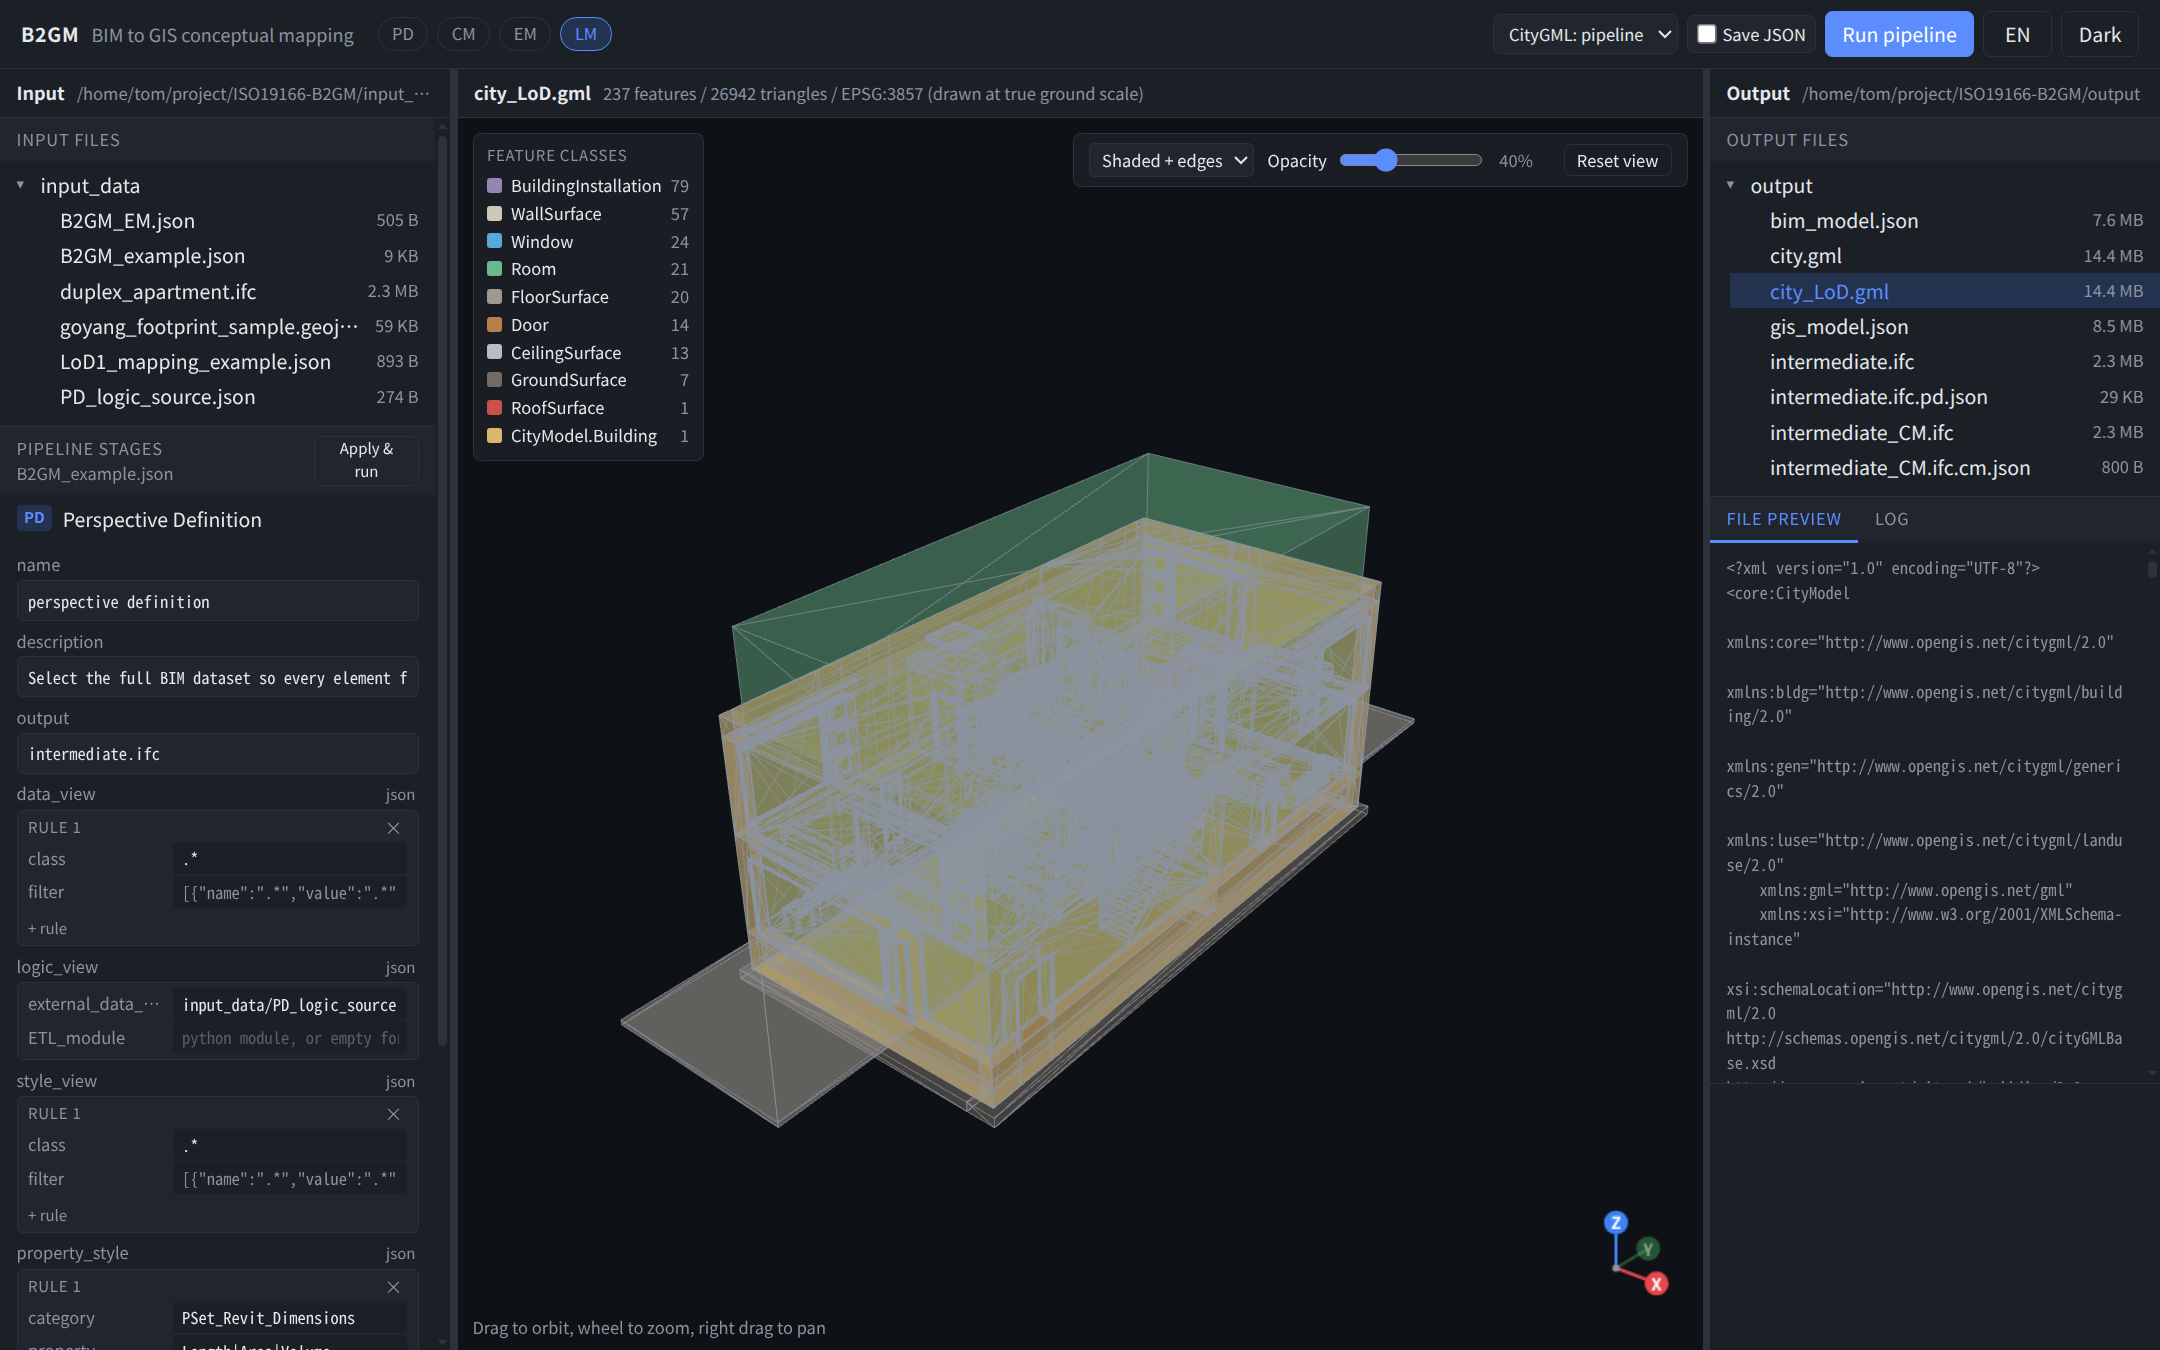
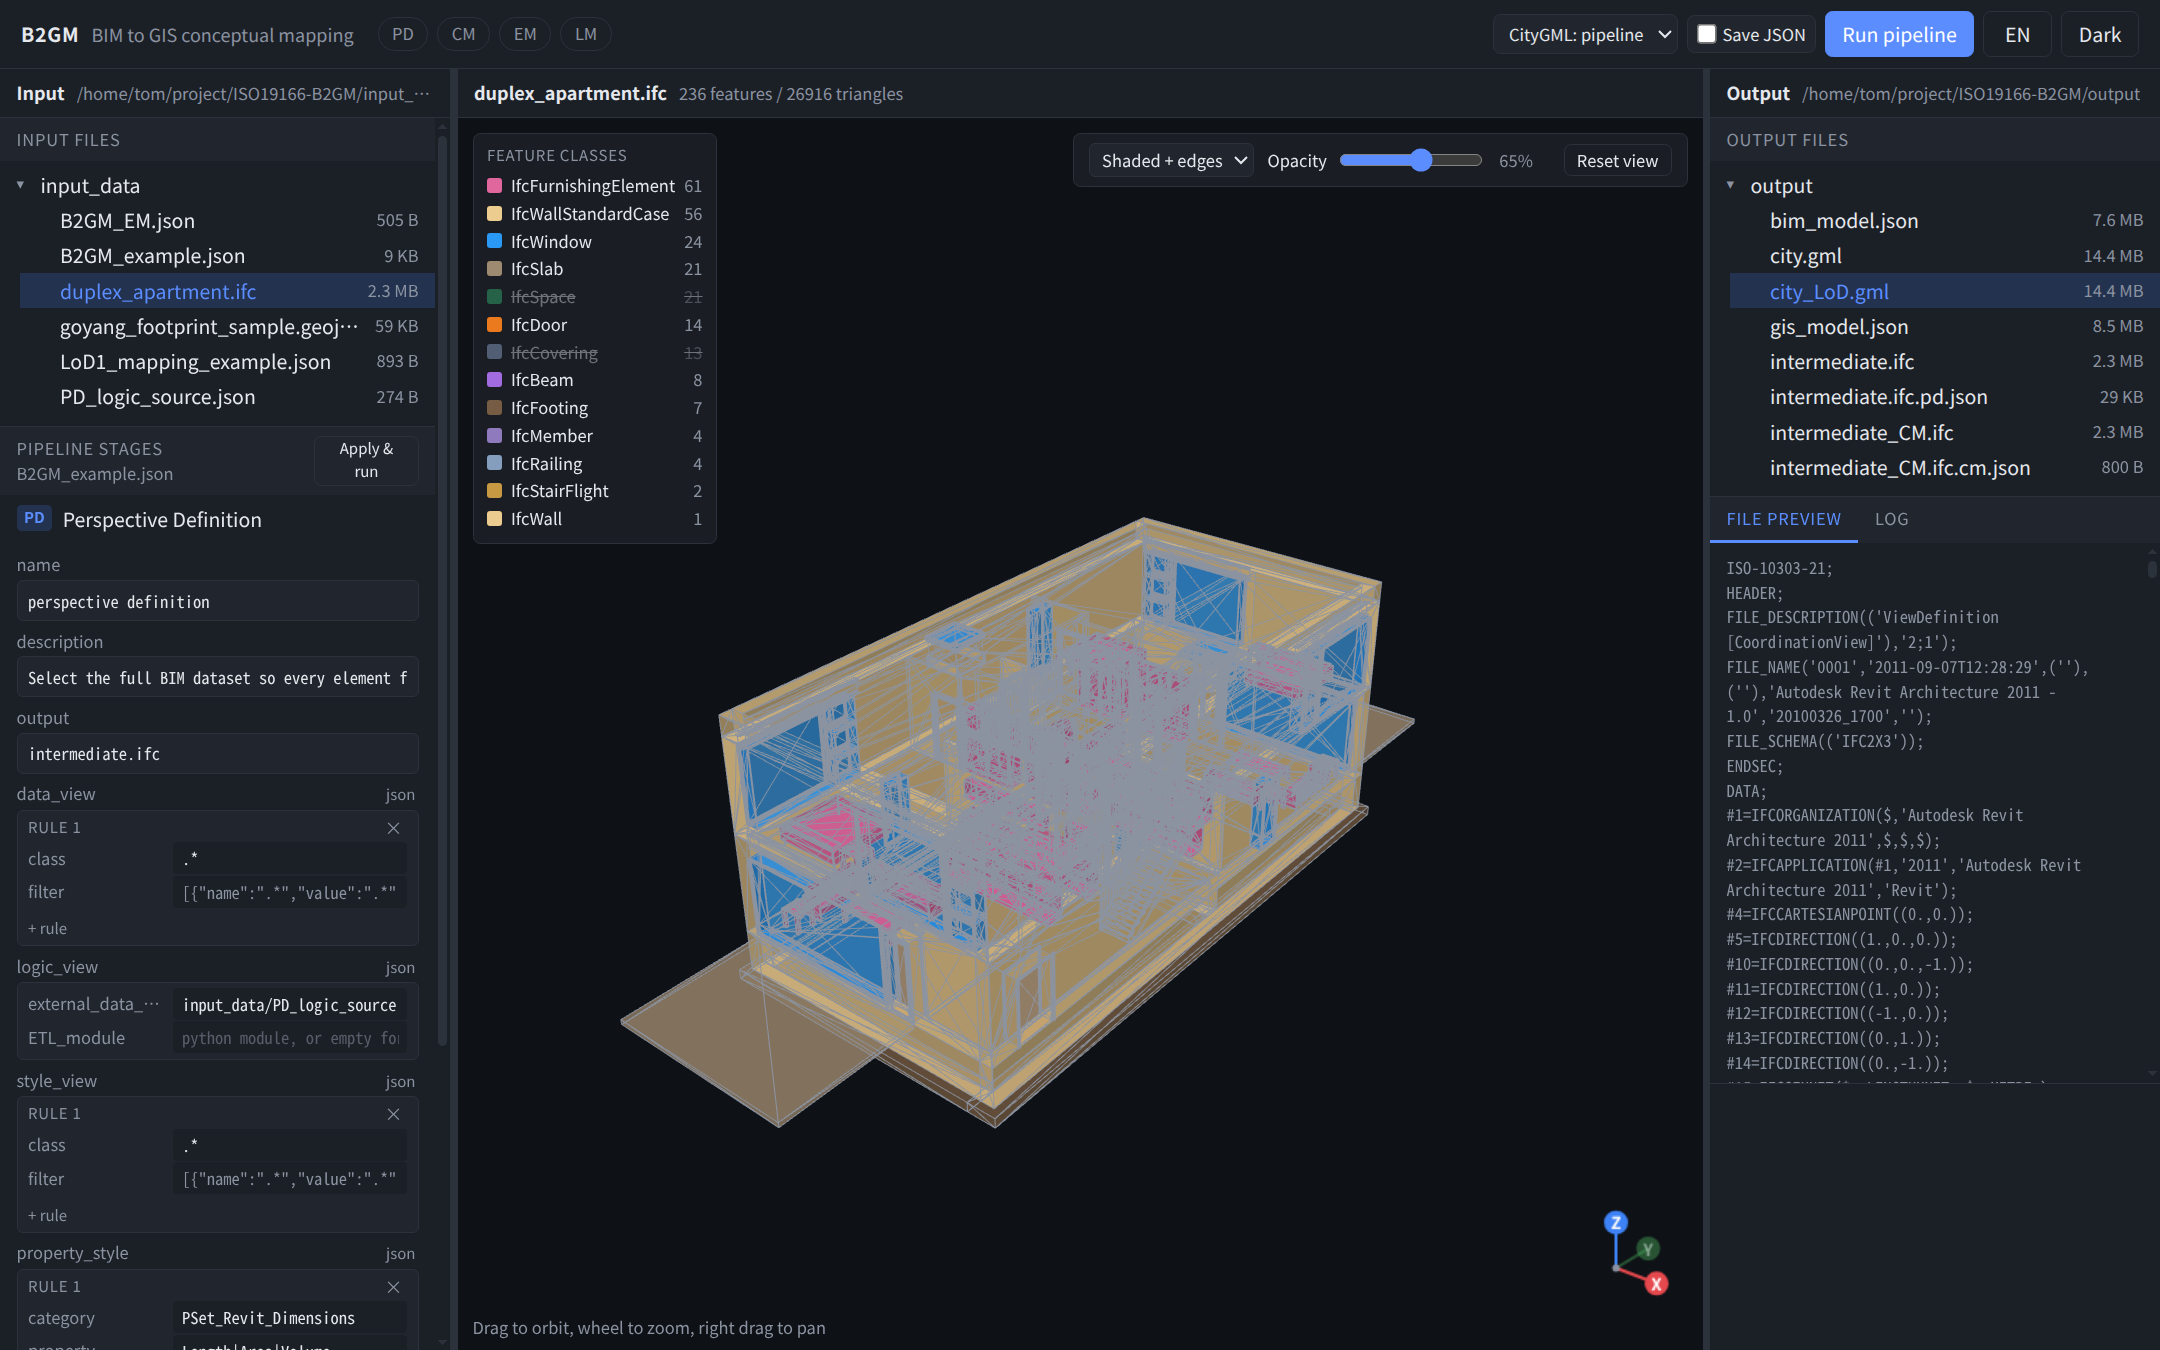
open the readme on the source ifc drawn translucent

diff --git a/README.md b/README.md
@@ -16,7 +16,7 @@ without a tool, which makes them hard to try out; this repository is meant to
 close that gap. If you are interested, fork and join.
 
 <p align="center">
-  <img src="./doc/webview.png" width="900" alt="B2GM web view: input tree and pipeline stages on the left, the mapped CityGML model drawn translucent with edges in the middle, output tree and file preview on the right"></img>
+  <img src="./doc/webview.png" width="900" alt="B2GM web view: the source IFC selected in the input tree and drawn translucent with edges in the middle, so the furniture and windows show through the walls; pipeline stages on the left, output tree and file preview on the right"></img>
 </p>
 
 ## Contents
@@ -124,8 +124,8 @@ dependencies.
   chips, which open a stage and show its output on the canvas.
 
 Drop an `.ifc` on the canvas, optionally with a pipeline `.json`, to convert it.
-`?theme=`, `?lang=`, `?mode=`, `?select=` and `?hide=` preset a view so it can be
-shared as a link. See [Web view](doc/web-view.md) for the routes and the
+`?theme=`, `?lang=`, `?mode=`, `?opacity=`, `?select=` and `?hide=` preset a view
+so it can be shared as a link. See [Web view](doc/web-view.md) for the routes and the
 Fly.io deployment.
 
 <p align="center">
